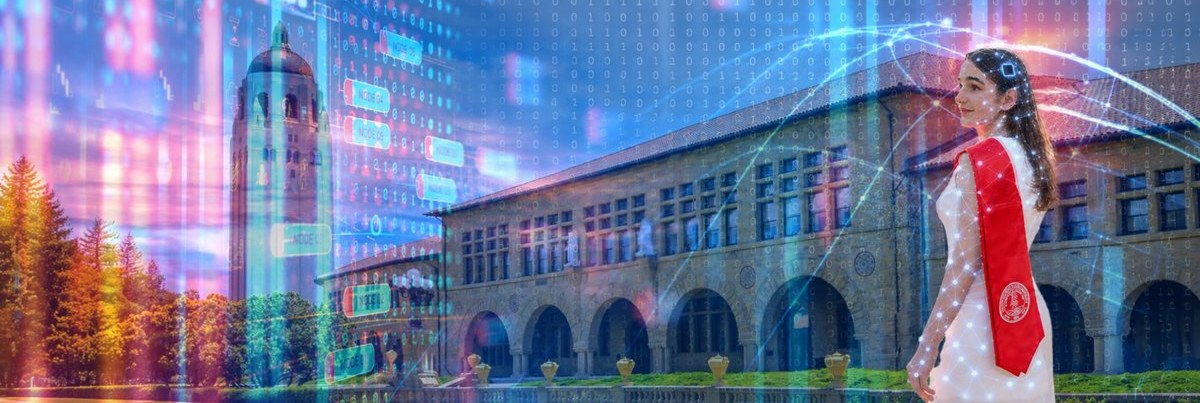
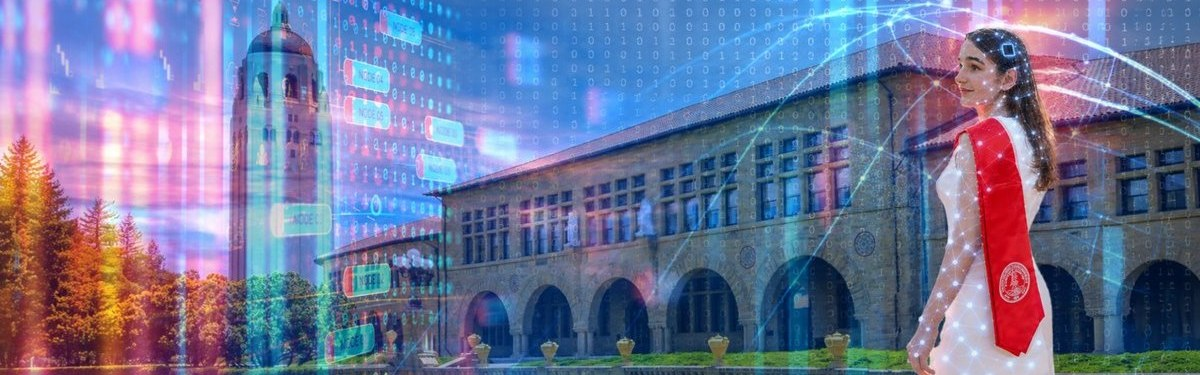
modified main homepage to make "let's dive in!" button more obvious
- moved text on main homepage up
- added click icon to "let's dive in!" button
- made rippling oval animation around the "let's dive in!" button more pronounced and obvious
- slightly cropped top and bottom of the main banner image to make more room for "let's dive in!" button

diff --git a/src/styles.css b/src/styles.css
@@ -786,7 +786,7 @@
  * The About gutter
  *
  * The run of column left under the About portrait, degrees and links, and the
- * three travel photographs that fall down it.
+ * two travel photographs that fall down it.
  *
  * A flex column rather than slots placed at a depth, which is the one thing
  * that actually keeps a print off the text. The stack above is a few hundred
@@ -798,7 +798,7 @@
  * under the text, and the column is the only thing deciding where that starts.
  *
  * Below 1024px the prose takes the full width, there is no second column, and
- * the wall at the foot of About carries these same three prints in the page
+ * the wall at the foot of About carries these same two prints in the page
  * instead — see the `data-gutter` rule further down.
  * ------------------------------------------------------------------ */
 
@@ -877,7 +877,7 @@
   margin-bottom: 3rem;
 }
 
-/* The three prints that drift in the About gutter from 1024px up stand down
+/* The two prints that drift in the About gutter from 1024px up stand down
    here, so the same photograph is never on screen twice. Below that width
    there is no gutter and the wall carries all nineteen. This is an attribute
    rather than a `lg:hidden` class because the `display` above would otherwise
@@ -1243,15 +1243,17 @@
 
 @media (min-width: 768px) {
   /* The identity sits high in the stage rather than centred in it, so the name
-     follows close on the banner. */
+     follows straight on from the banner — near enough to read as the caption
+     to the cover art rather than as the head of a second screen. What is left
+     is the banner's own fade, which the name would otherwise sit inside. */
   .beach-stage {
     display: flex;
     flex-direction: column;
     justify-content: flex-start;
     min-height: 100vh;
     min-height: 100svh;
-    padding-top: 9vh;
-    padding-top: 9svh;
+    padding-top: 2vh;
+    padding-top: 2svh;
   }
 
   .hero-surface {
@@ -1301,28 +1303,63 @@
   }
 }
 
-/* A ring going out from it, the way a ring goes out from something dropped in
-   water. It is what makes the button read as the thing to press without any
-   of it being loud. */
+/* Rings going out from it, the way rings go out from something dropped in
+   water. It is what makes the button read as the thing to press.
+ *
+ * Two of them, half a cycle apart, so there is always one on the sand: a lone
+ * ring on a 3.4s loop spends most of its life faded out, and a reader glancing
+ * at the beach could easily never catch it. The pair also gives the spacing
+ * that reads as water — a ring, then another behind it — rather than as a
+ * single button blinking. They are drawn at near-full --stamp on a 2px line,
+ * because this is sitting on lit sand and a hairline at half alpha
+ * disappears into it. */
+.dive-button::before,
 .dive-button::after {
   content: "";
   position: absolute;
   inset: 0;
   border-radius: inherit;
-  border: 1px solid color-mix(in srgb, var(--stamp) 55%, transparent);
-  animation: dive-button-ring 3.4s cubic-bezier(0.2, 0.6, 0.35, 1) infinite;
+  border: 2px solid color-mix(in srgb, var(--stamp) 90%, transparent);
+  animation: dive-button-ring 2.4s cubic-bezier(0.2, 0.6, 0.35, 1) infinite;
   pointer-events: none;
 }
 
+.dive-button::before {
+  animation-delay: 1.2s;
+}
+
+/* The ring starts at the button's own edge, so its first frames are drawn on
+   top of a shape in the same colour and count for nothing. It comes up to full
+   only at 12%, by which point it has cleared the stamp and is on lit sand —
+   that is where the brightness is worth spending, not underneath.
+ *
+ * It grows to the last frame rather than snapping back, so it reads as a ring
+   spreading rather than as an outline fading, and so there is no dead time at
+   the top of the loop: the other ring is already halfway out by then. */
 @keyframes dive-button-ring {
   0% {
     transform: scale(1);
-    opacity: 0.55;
-  }
-  70%,
-  100% {
-    transform: scale(1.22);
     opacity: 0;
+  }
+  12% {
+    opacity: 0.95;
+  }
+  100% {
+    transform: scale(1.42);
+    opacity: 0;
+  }
+}
+
+/* Stilled to a single plain outline where motion is unwelcome. The ring's job
+   is to say "press this", and an outline still says it. */
+@media (prefers-reduced-motion: reduce) {
+  .dive-button::before {
+    display: none;
+  }
+
+  .dive-button::after {
+    animation: none;
+    opacity: 0.9;
   }
 }
 
@@ -1336,6 +1373,42 @@
 
 .dive-button:active {
   transform: translateY(4px);
+}
+
+/* The pointer ahead of the words, drawn at the weight the rest of the site's
+ * line art is drawn at. It taps on the ring's 2.4s clock, a beat before each
+ * leading ring goes, so the two read as one gesture: press, ring. The nudge is down
+ * and right, the direction a hand actually moves on a click. */
+.dive-button-cursor {
+  width: 1.35rem;
+  height: 1.35rem;
+  flex: none;
+  fill: none;
+  stroke: currentColor;
+  stroke-width: 1.6;
+  stroke-linecap: round;
+  stroke-linejoin: round;
+  animation: dive-cursor-tap 2.4s ease-in-out infinite;
+}
+
+@keyframes dive-cursor-tap {
+  0%,
+  86%,
+  100% {
+    transform: translate(0, 0);
+  }
+  92% {
+    transform: translate(1px, 1px) scale(0.9);
+  }
+}
+
+/* The pointer stays — it is the part that says "button" — but it stops
+   tapping. Below the rule it cancels, not above it: both are one class, so
+   whichever comes last is the one that lands. */
+@media (prefers-reduced-motion: reduce) {
+  .dive-button-cursor {
+    animation: none;
+  }
 }
 
 .dive-button-arrow {
@@ -1564,6 +1637,34 @@
   .beach-copy {
     transition: none;
   }
+}
+
+/* One ink on the sand.
+ *
+ * Everything written on the beach — the name, the lede, the contact links and
+ * the marks beside them, the degrees and their years — is set in --bone, so the
+ * first screen reads in a single voice instead of the three inks the rest of
+ * the site uses to rank a page. The bands still move --bone down with the
+ * water, so this stays a relationship rather than a fixed hex.
+ *
+ * The dive stamp is the one exception: its label sits on a filled pill and
+ * keeps --stamp-ink, the only colour legible there. The :not()s below are what
+ * hold it out, and each selector is a class deeper than the utility it is
+ * overriding, which is what makes it land without !important.
+ */
+.beach-copy,
+.beach-copy :is(a, dt, dd, span, li):not(.dive-button),
+.beach-copy svg:not(.dive-button-cursor, .dive-button-arrow) {
+  color: var(--bone);
+}
+
+/* The links keep the underline that marks them as links; only the ink moves. */
+.beach-copy a:not(.dive-button) {
+  text-decoration-color: color-mix(in oklch, var(--bone) 45%, transparent);
+}
+
+.beach-copy a:not(.dive-button):hover {
+  text-decoration-color: var(--bone);
 }
 
 /* ---------------------------------------------------------------------

diff --git a/src/components/Hero.tsx b/src/components/Hero.tsx
@@ -30,7 +30,7 @@ export function Hero() {
       <div className="beach-stage">
         <div aria-hidden="true" data-print="hide" className="hero-surface" />
         <div
-          className="beach-copy shell relative flex min-h-[46svh] flex-col justify-center pb-20 pt-8"
+          className="beach-copy shell relative flex min-h-[46svh] flex-col justify-start pb-20 pt-3"
           data-diving={diving || undefined}
         >
           <h1
@@ -40,13 +40,13 @@ export function Hero() {
             {site.name}
           </h1>
           <p
-            className="reveal measure mt-6 text-lede leading-relaxed text-bone sm:text-h3"
+            className="reveal measure mt-6 text-lede leading-relaxed sm:text-h3"
             style={{ animationDelay: "200ms" }}
           >
             {site.positioning}
           </p>
           <ul
-            className="reveal mt-10 flex flex-wrap gap-x-6 gap-y-3 text-base"
+            className="reveal mt-6 flex flex-wrap gap-x-6 gap-y-3 text-base"
             style={{ animationDelay: "320ms" }}
           >
             {profileLinks.map((l) => (
@@ -67,9 +67,9 @@ export function Hero() {
           <dl className="reveal mt-8 space-y-1.5 text-fine" style={{ animationDelay: "460ms" }}>
             {site.education.map((e) => (
               <div key={e.degree} className="flex flex-wrap gap-x-3">
-                <dt className="tabular-nums text-sound">{e.year}</dt>
-                <dd className="text-muted-foreground">
-                  <span className="text-bone">{e.degree}</span>, {e.school}
+                <dt className="tabular-nums">{e.year}</dt>
+                <dd>
+                  {e.degree}, {e.school}
                   {e.gpa && <span className="tabular-nums"> · GPA {e.gpa}</span>}
                 </dd>
               </div>
@@ -78,7 +78,7 @@ export function Hero() {
           {/* Centred rather than ranged left with the rest: it is the one
               thing on the beach asking to be pressed, and the middle is
               where the eye ends up. */}
-          <div className="reveal mt-12 flex justify-center" style={{ animationDelay: "600ms" }}>
+          <div className="reveal mt-8 flex justify-center" style={{ animationDelay: "600ms" }}>
             <DiveButton onDive={() => setDiving(true)} />
           </div>
         </div>

diff --git a/src/data/objects.ts b/src/data/objects.ts
@@ -100,7 +100,7 @@ export const LAYER_TREATMENT: Record<
  * as distance, so a print's depth is carried by how it moves instead.
  *
  * It now sets that movement too, and trades the axes round. A drifting object
- * has open water above and below it; the three prints in the About gutter have
+ * has open water above and below it; the two prints in the About gutter have
  * the lists fixed above them and the wall fixed below, and only the leftover
  * column between the two. So a print rises less than the layer it sits on would
  * have it rise, and in exchange crosses and rocks further — the room it has is
@@ -126,7 +126,7 @@ export const PHOTO_TREATMENT = {
  * prose are always showing the same print described the same way. Only how it
  * hangs is given here, which is the one thing the wall has no use for.
  *
- * `depth` orders these three down the gutter and nothing else: a print falls in
+ * `depth` orders these two down the gutter and nothing else: a print falls in
  * the column left under the About text rather than at a depth in the band, so
  * there is no page position to give it. `x` is likewise the band field's, not
  * the gutter's — a print is centred in the column it falls down.
@@ -157,7 +157,7 @@ function print(
  * Skills or Research bands, so the whole lit half of the descent opens on the
  * writing alone.
  * Mid-water: a trophy, for the awards it falls beside.
- * Through the About band: three of the travel photographs, falling down the
+ * Through the About band: two of the travel photographs, falling down the
  * column left under the portrait and the lists that anchor the top of it, and
  * clear of the wall that carries the rest at the foot of the section.
  * Past QUIET_DEPTH: nothing at all.
@@ -190,13 +190,6 @@ export const driftObjects: DriftObject[] = [
     rotation: -6,
     scale: 1.08,
     tint: "#d8a86a",
-  }),
-  print("lisbon", {
-    depth: 1961,
-    driftSpeed: 0.45,
-    rotation: 5,
-    scale: 1.25,
-    tint: "#dfa0c4",
   }),
 ];
 

diff --git a/src/components/Banner.tsx b/src/components/Banner.tsx
@@ -1,12 +1,13 @@
 /**
  * Full-bleed cover image opening the homepage.
  *
- * The asset in public/ is the cover art at roughly 3:1, trimmed of the editor
- * frame it was captured with and of the top 5% of the sky. On desktop the cap
- * bites from ~1570px wide and crops from the bottom, so the banner never pushes
- * the name below the fold. The cap is 520px plus 1.77vw — 5% of the uncropped
- * art's rendered height — so that with the sky trimmed, a capped banner shows
- * 10% more of the bottom of the art than a flat 520px did.
+ * The asset in public/ is the cover art, trimmed of the editor frame it was
+ * captured with, of the sky above it — 5% of the art's height, then a further
+ * 5% — and of 2% off the foot, which leaves it at roughly 3.2:1. On desktop the
+ * cap bites from ~1765px wide and crops from the bottom, so the banner never
+ * pushes the name below the fold. The cap is 520px plus 1.77vw, so that with
+ * the sky trimmed a capped banner shows more of the bottom of the art than a
+ * flat 520px did.
  *
  * Phones crop in and bias right, keeping the subject whole on a narrow screen.
  */
@@ -18,7 +19,7 @@ export function Banner() {
         srcSet="/banner-1200.jpg 1200w, /banner.jpg 2079w"
         sizes="100vw"
         width={2079}
-        height={698}
+        height={649}
         alt="Stanford's Main Quad and Hoover Tower layered with streams of binary code and a glowing network of nodes, with a graduate in a Stanford sash at the right."
         fetchPriority="high"
         className="h-[160px] w-full object-cover object-[72%_50%] sm:h-auto sm:max-h-[calc(520px_+_1.77vw)] sm:object-top"

diff --git a/src/components/TravelWall.tsx b/src/components/TravelWall.tsx
@@ -116,7 +116,7 @@ function Print({ photo, index }: { photo: TravelPhoto; index: number }) {
  * media query rather than a measurement — the wall is laid out correctly on the
  * server and does not shift when hydration lands.
  *
- * Three of these prints also fall down the gutter beside the About prose from
+ * Two of these prints also fall down the gutter beside the About prose from
  * 1024px up, and carry `data-gutter` so that styles.css can stand them down
  * here, so the same photograph is never on screen twice. Below that width
  * there is no gutter and the wall carries all nineteen.
@@ -125,7 +125,7 @@ export function TravelWall() {
   return (
     // A printed résumé has no use for nineteen holiday photographs.
     <div data-print="hide">
-      {/* This gap is also the bottom of the runway the three gutter prints
+      {/* This gap is also the bottom of the runway the two gutter prints
           fall down — they need room to rise and rock clear of both the links
           above them and this wall below. See .about-gutter in styles.css. */}
       <Rise className="mt-24 sm:mt-40">

diff --git a/src/data/travel.ts b/src/data/travel.ts
@@ -1,7 +1,7 @@
 /**
  * The travel photographs.
  *
- * One manifest, two presentations. Three of them float in the gutter beside the
+ * One manifest, two presentations. Two of them float in the gutter beside the
  * About prose as ordinary drifting objects — `src/data/objects.ts` reads them
  * from here so a caption or a ratio is only ever written once. The rest, and on
  * a narrow viewport all of them, hang on the wall at the foot of About.
@@ -22,7 +22,7 @@ export interface TravelPhoto {
   aspect: number;
   /**
    * Also drifts in the About gutter from 1024px up (see `src/data/objects.ts`).
-   * The wall stands these three down at that width, because the gutter has
+   * The wall stands these two down at that width, because the gutter has
    * them — below it there is no gutter, so the wall shows all nineteen.
    */
   gutter?: boolean;
@@ -123,7 +123,6 @@ export const travelPhotos: TravelPhoto[] = [
     city: "Lisbon",
     country: "Portugal",
     aspect: 0.75,
-    gutter: true,
   },
   {
     id: "sintra",

diff --git a/src/components/Dive.tsx b/src/components/Dive.tsx
@@ -76,6 +76,16 @@ export function DiveButton({ onDive }: { onDive?: () => void }) {
         dive();
       }}
     >
+      {/* A pointer mid-click, ahead of the words. The beach is a page of
+          writing with one thing on it to press, and a reader who has been
+          reading rather than clicking can take the stamp for a heading —
+          this says, before the sentence does, that it is a button. The taps
+          it beats out are on the ring's clock, so the cursor reads as the
+          thing making the rings rather than as a second animation. */}
+      <svg className="dive-button-cursor" viewBox="0 0 24 24" aria-hidden="true" focusable="false">
+        <path d="M9.4 9.4 20.6 13.7l-4.4 1.3-1.3 4.4z" />
+        <path d="M14 4.1 12 6M5.1 8 2.2 7.2M6 12l-1.9 2M7.2 2.2 8 5.1" />
+      </svg>
       Let&rsquo;s Dive In!
       <svg className="dive-button-arrow" viewBox="0 0 24 24" aria-hidden="true" focusable="false">
         <path d="M12 4.5v14m0 0 5.5-5.5M12 18.5 6.5 13" />

diff --git a/src/components/depth/ObjectField.tsx b/src/components/depth/ObjectField.tsx
@@ -274,7 +274,7 @@ export function ObjectField({ bandId }: { bandId: BandId }) {
  * it at all.
  *
  * Below 1024px there is no second column to fall down: styles.css stands this
- * whole run down and the wall at the foot of About carries the same three
+ * whole run down and the wall at the foot of About carries the same two
  * prints in the page instead.
  */
 export function GutterField() {
